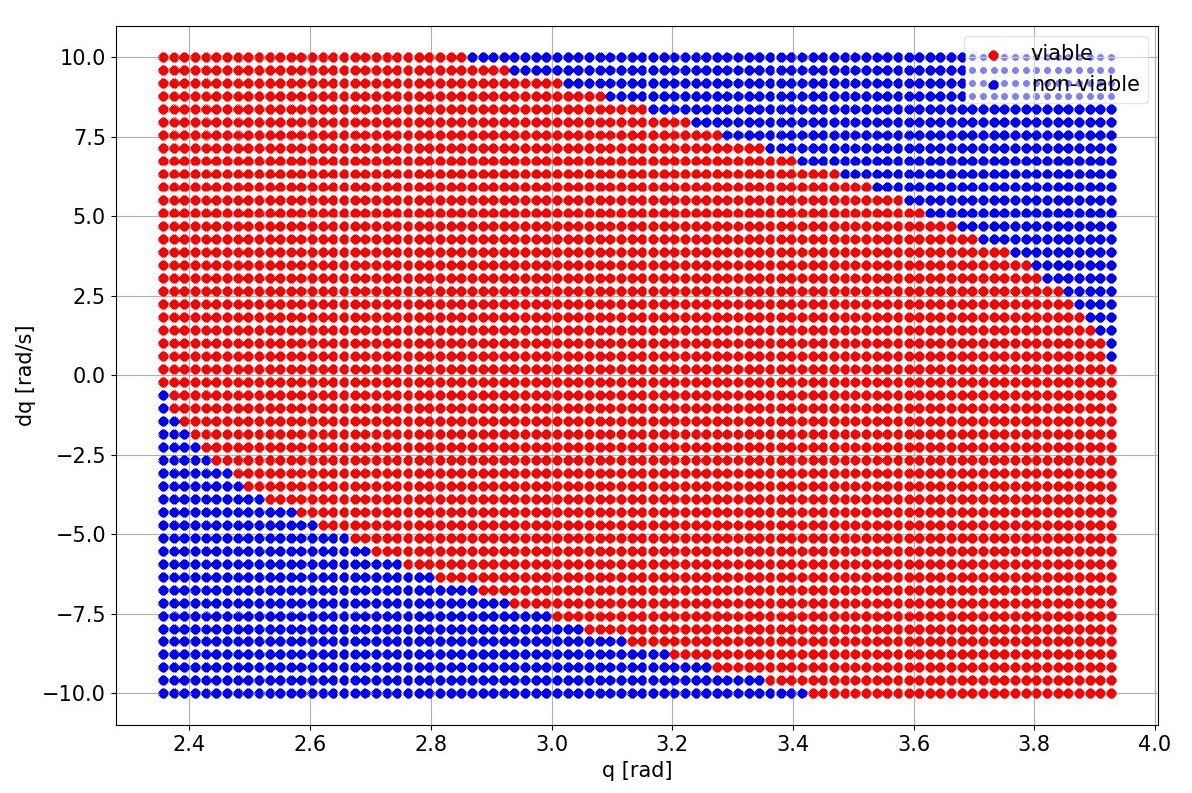
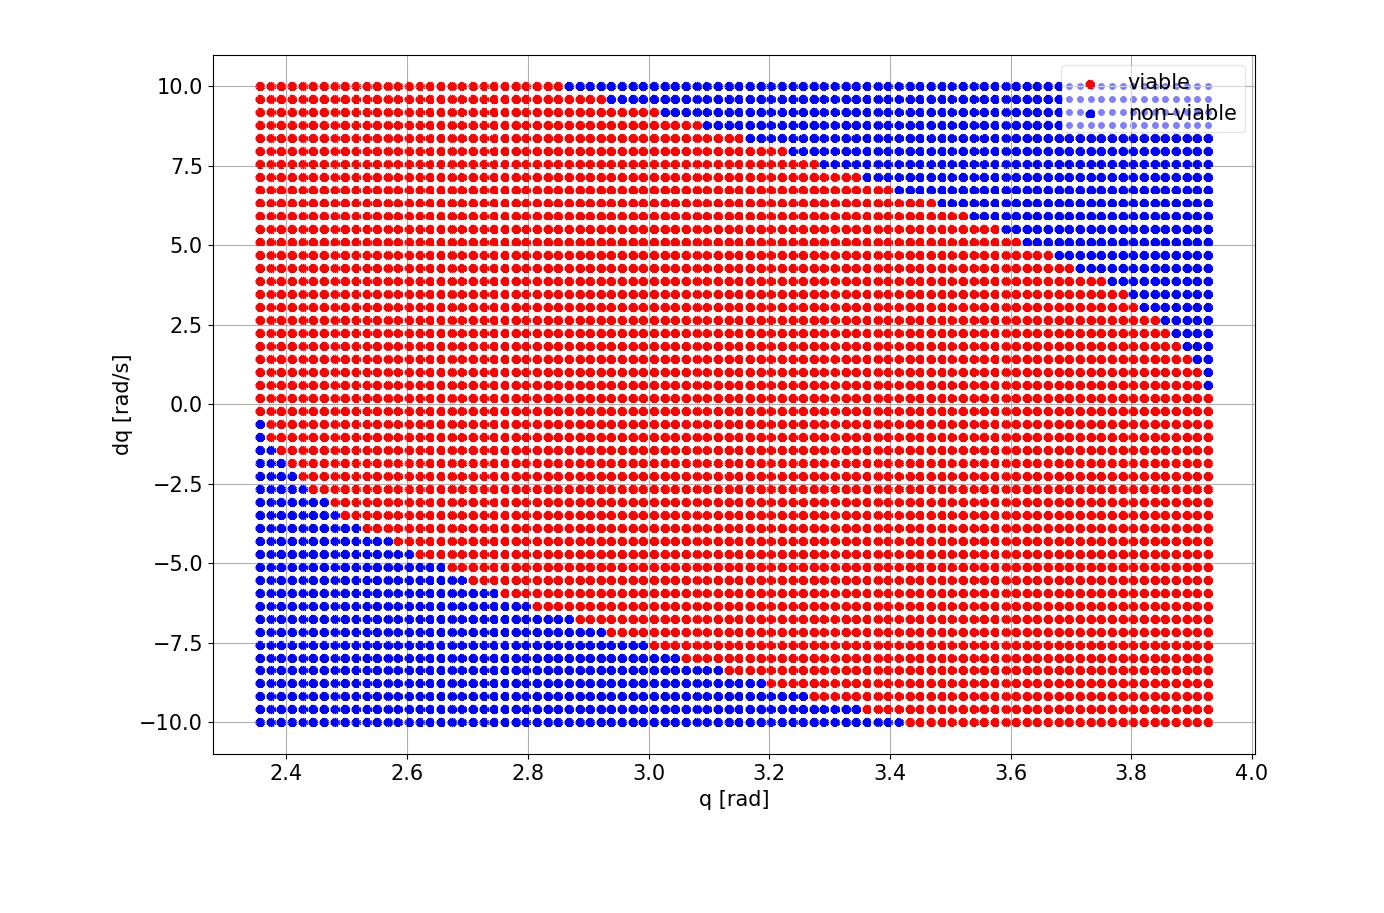
Plots

diff --git a/A2/Plot-5g/README.md b/A2/Plot-5g/README.md
@@ -32,14 +32,26 @@ In this folder, you will find plots obtained by varying position or velocity lim
 
 ### 4500p-5g-vv:
 #### System Parameters:
--  **Position Limit:** 132° to 228° 
+-  **Position Limit:** 3π/4 to 5π/4
 -  **Velocity Limit:** ±15 
 -  **Control Bound:** ±5g
 
 #### Grid Configuration:
 - **Total Points:** 4500
-- **Position Range:** π/2 to 3π/2 (90 points)
+- **Position Range:** 132° to 228° (90 points)
 - **Velocity Range:** -13 to 13 (50 points)
 
 ---
 
+### 4500p-2q-2v:
+#### System Parameters:
+-  **Position Limit:** π/2 to 3π/2
+-  **Velocity Limit:** ±18 
+-  **Control Bound:** ±5g
+
+#### Grid Configuration:
+- **Total Points:** 4500
+- **Position Range:** 89° to 271° (90 points)
+- **Velocity Range:** -18 to 18 (50 points)
+
+---
